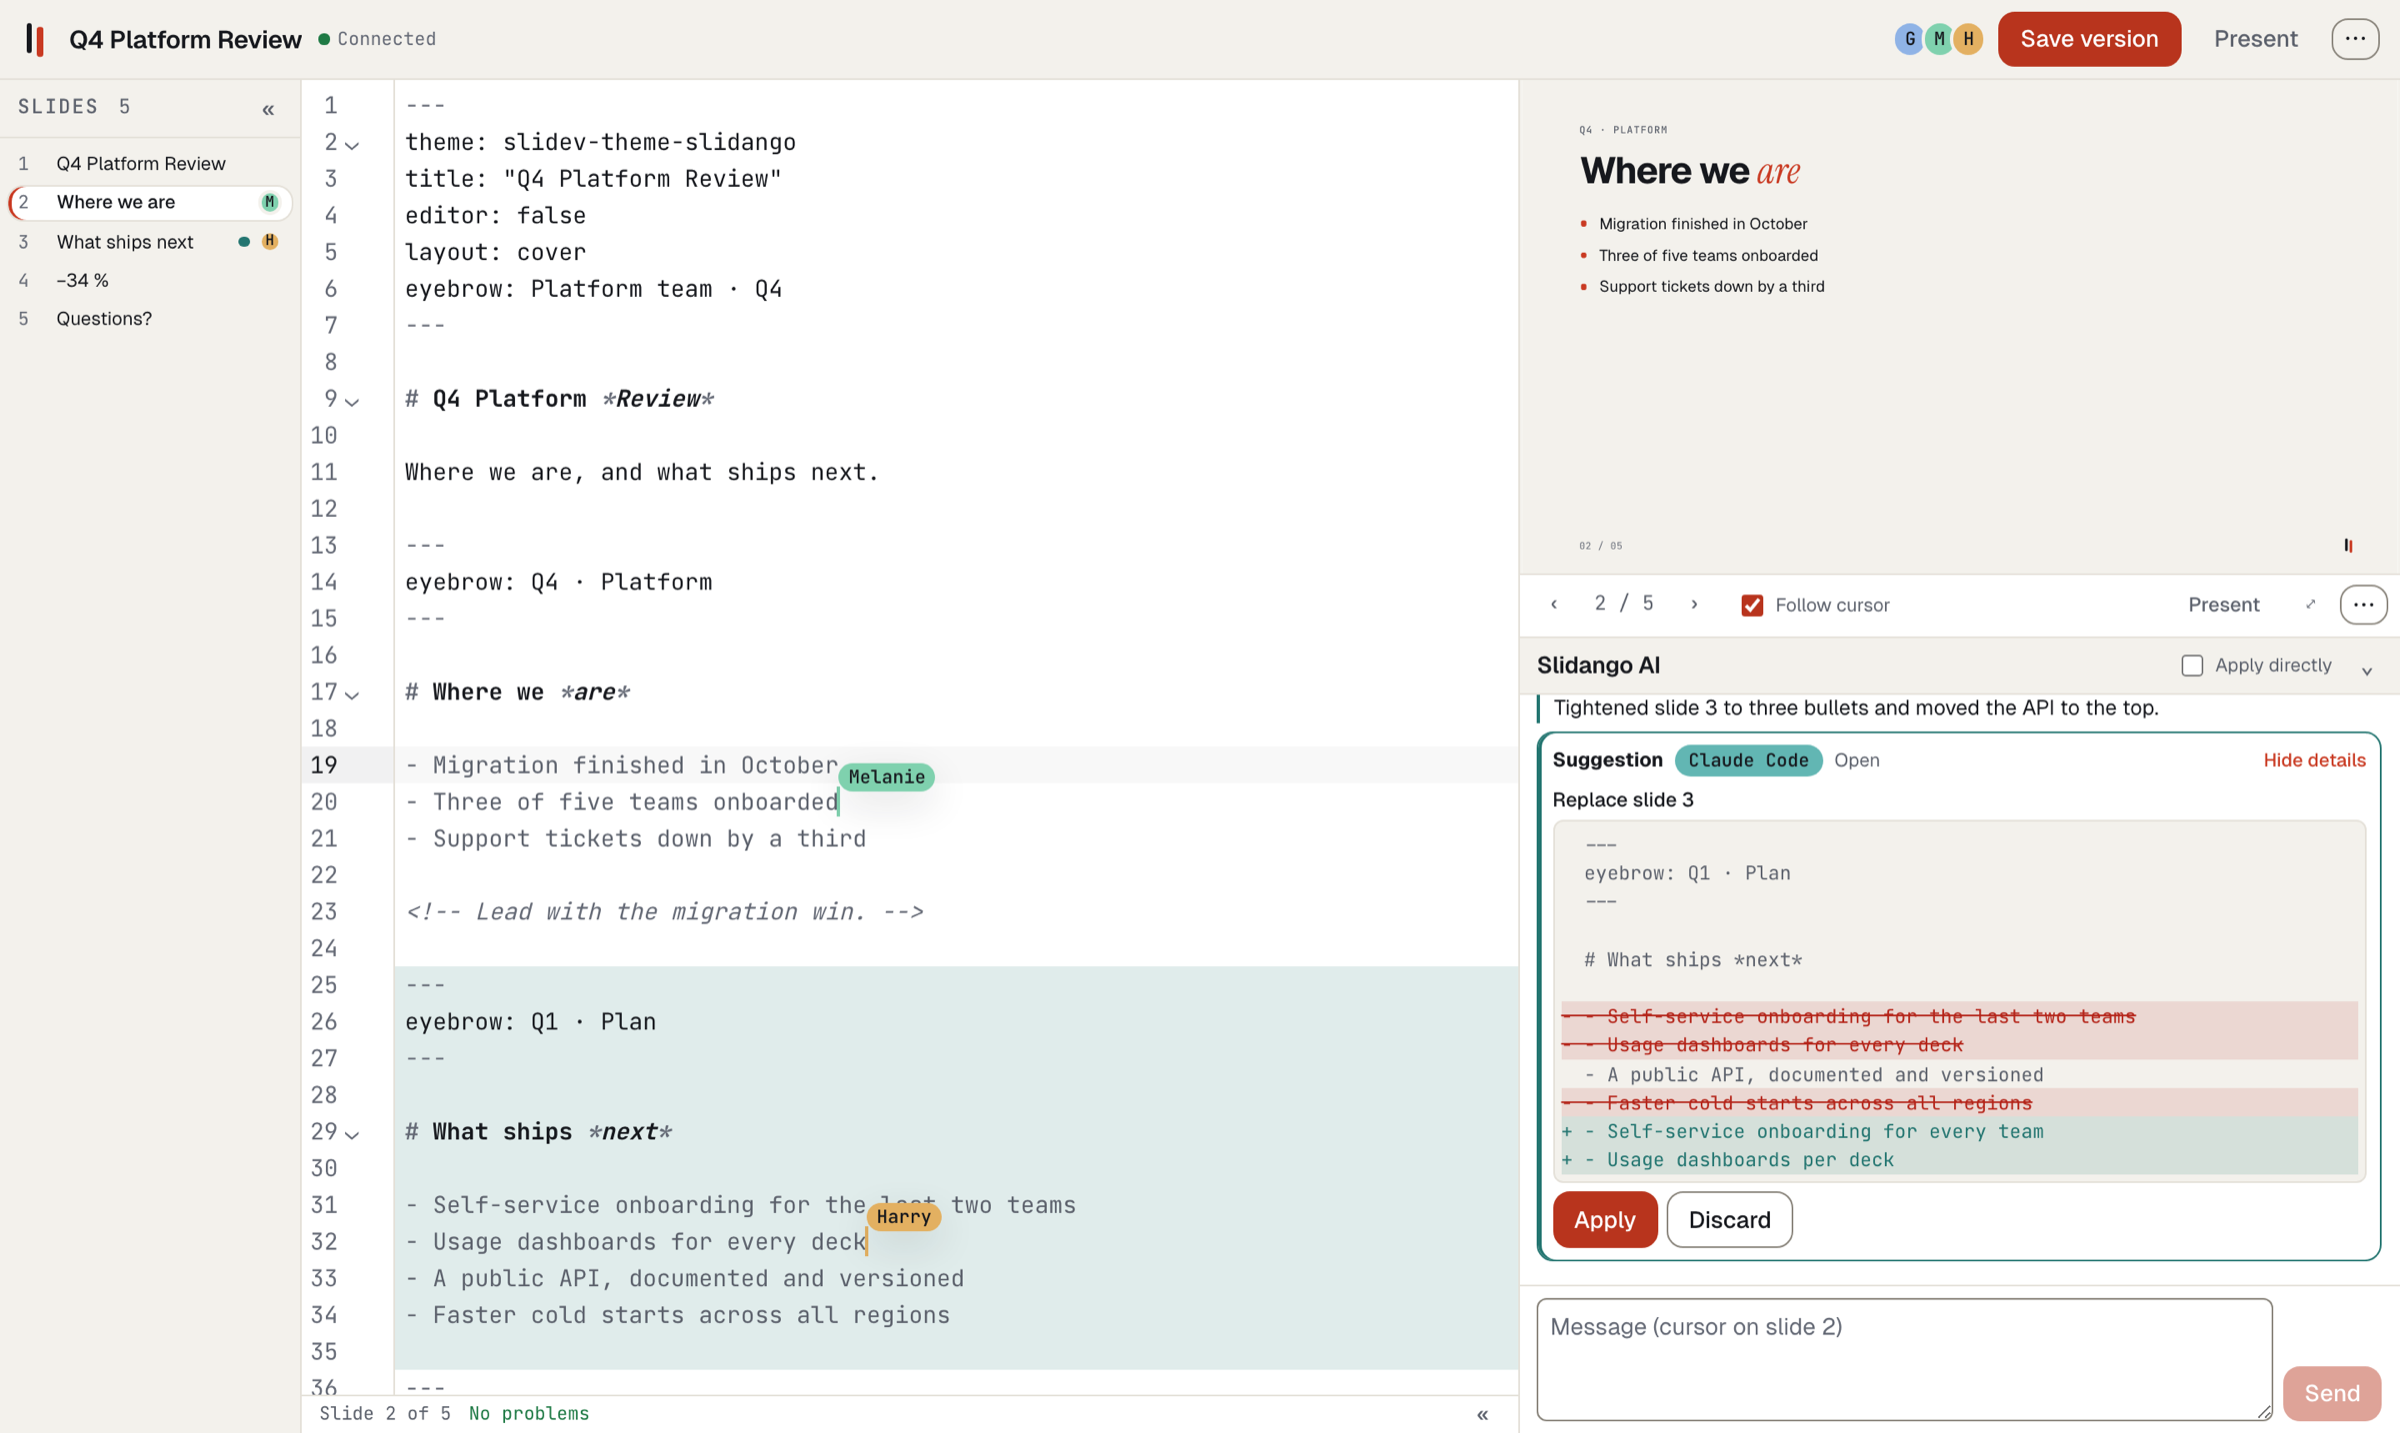
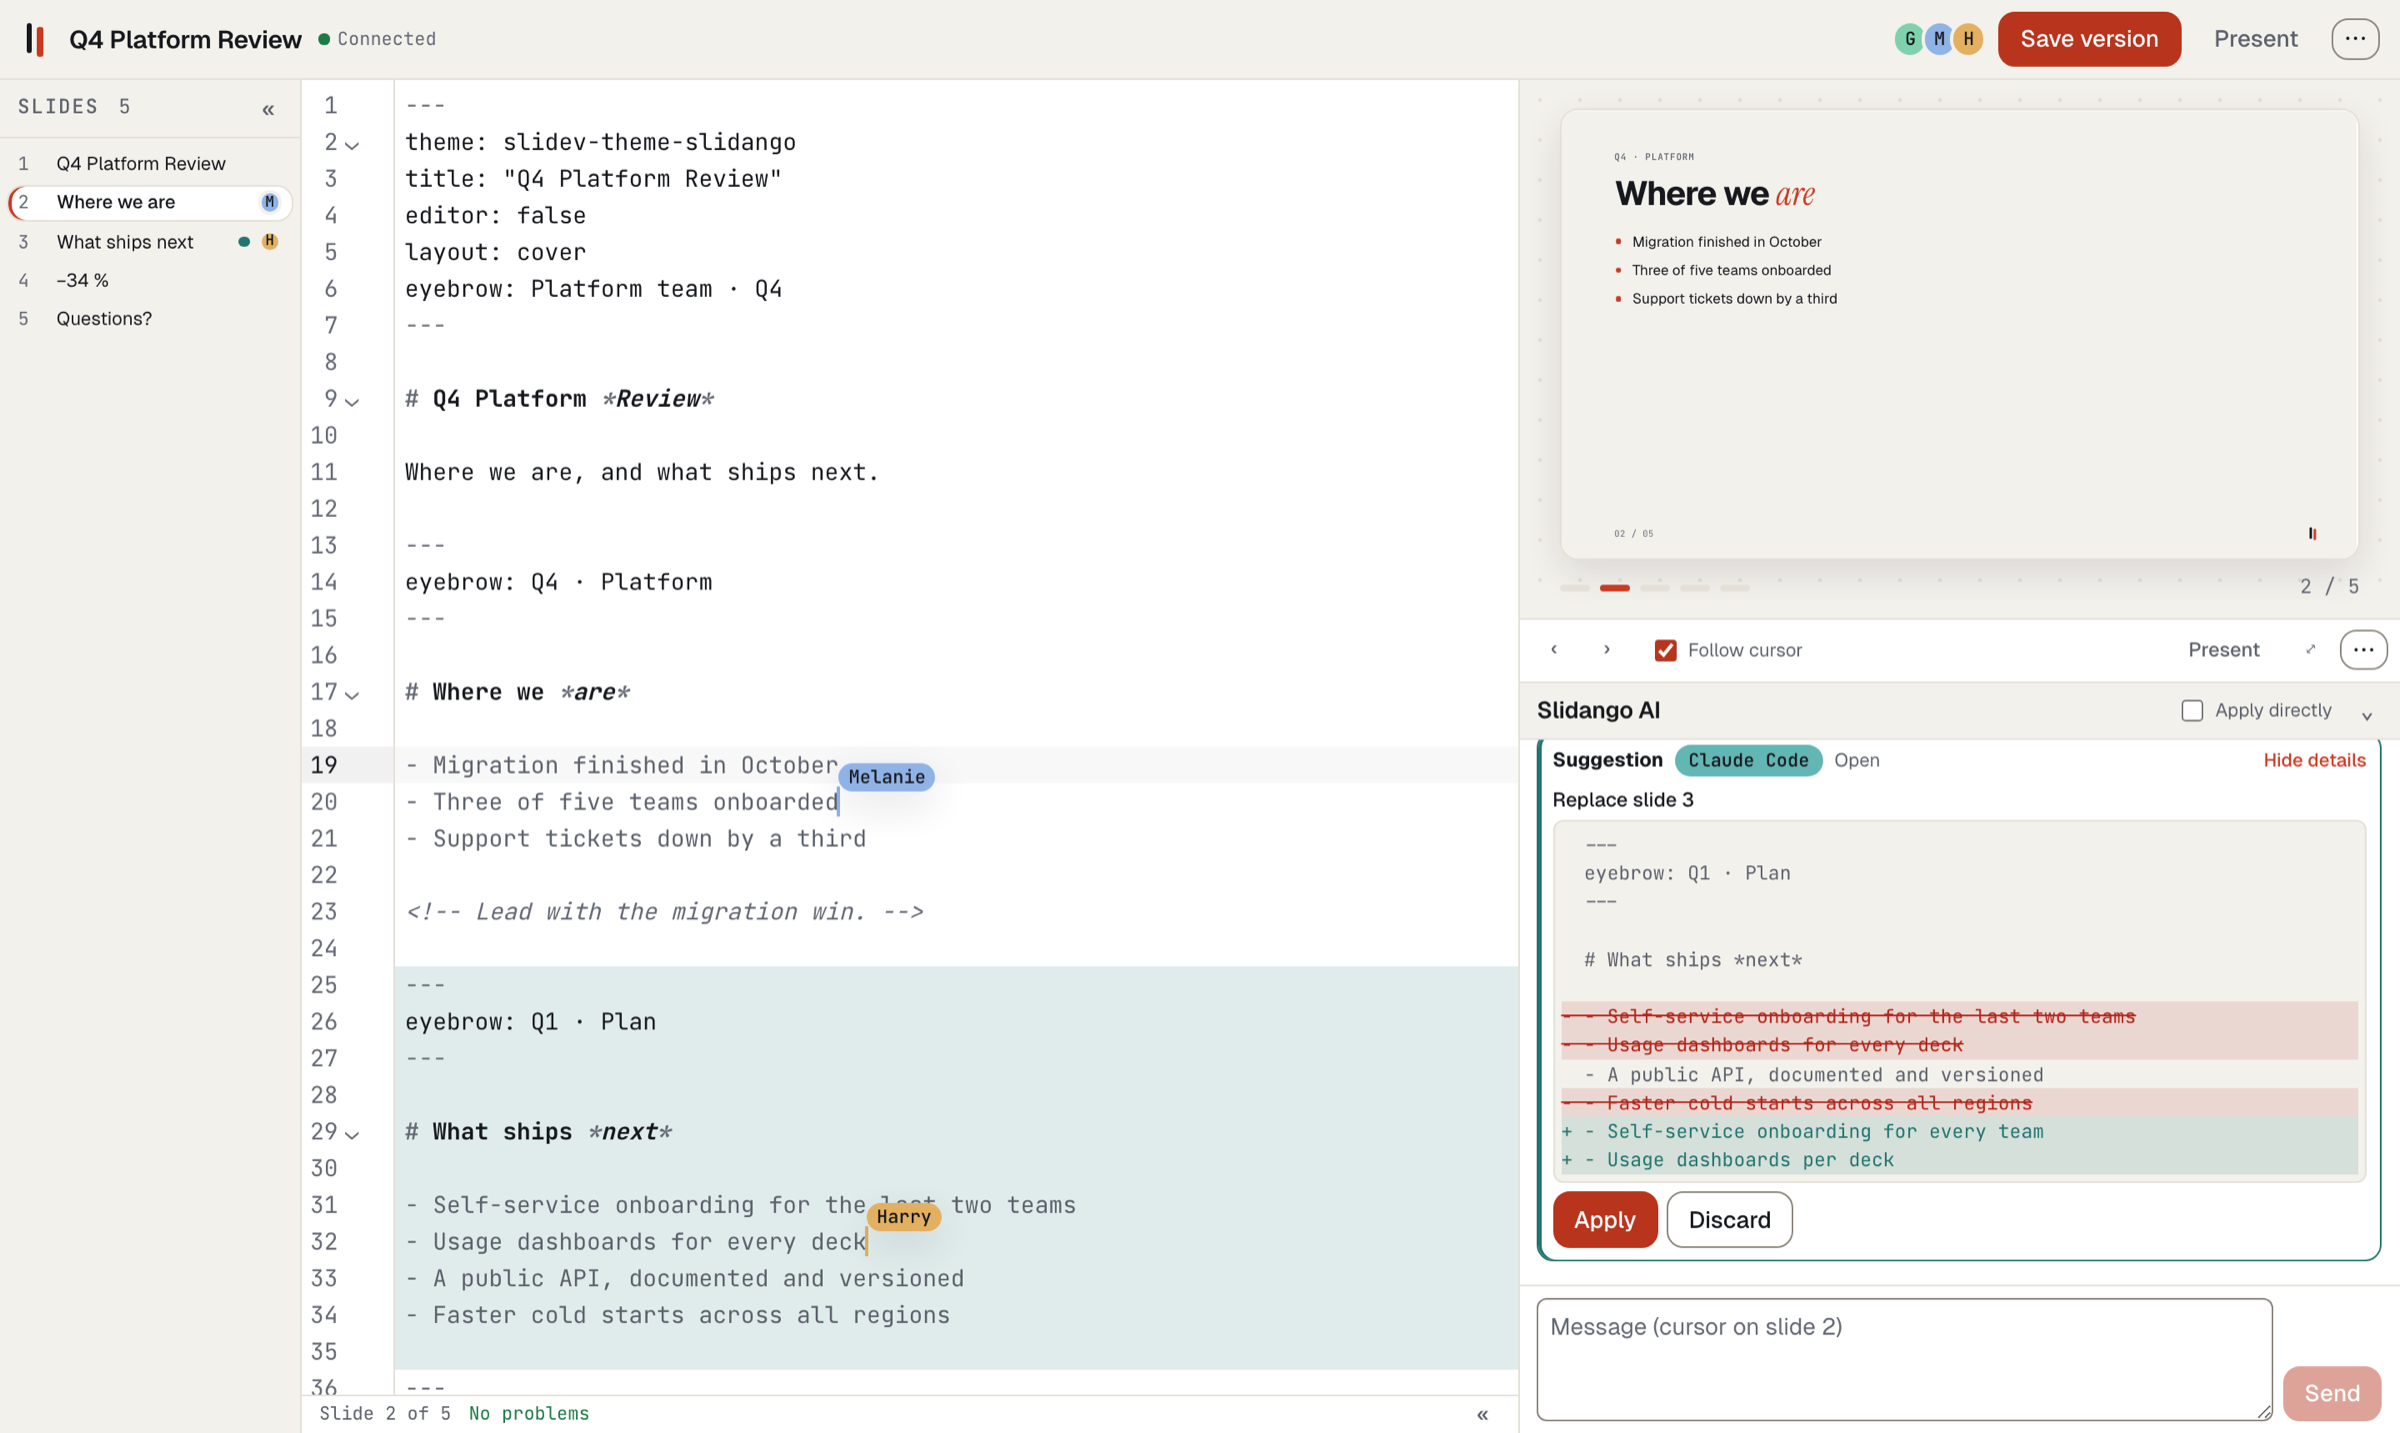
Preview stage like the landing page
The slide sits as an exact 16:9 card with a shadow on the dot grid (no
letterbox inside the iframe). Below it, one bar per slide with the
current one in tango; bars jump to their slide. The page count moves
from the toolbar under the slide.

diff --git a/apps/web/src/components/PreviewPane.vue b/apps/web/src/components/PreviewPane.vue
@@ -117,14 +117,34 @@ defineExpose({ restart: start, step })
 <template>
   <div class="preview" data-testid="preview">
     <div class="stage">
-      <iframe
-        v-if="preview?.status === 'ready' && src"
-        ref="frame"
-        :src="src"
-        title="Live preview"
-        allow="fullscreen; screen-wake-lock; clipboard-write"
-        @load="onLoad"
-      />
+      <template v-if="preview?.status === 'ready' && src">
+        <div class="fit">
+          <div class="sheet">
+            <iframe
+              ref="frame"
+              :src="src"
+              title="Live preview"
+              allow="fullscreen; screen-wake-lock; clipboard-write"
+              @load="onLoad"
+            />
+          </div>
+        </div>
+        <div class="pages">
+          <span class="bars" role="group" aria-label="Slides">
+            <button
+              v-for="n in total"
+              :key="n"
+              class="bar"
+              :class="{ on: n === current }"
+              :title="`Slide ${n}`"
+              :aria-label="`Slide ${n}`"
+              :aria-current="n === current ? 'page' : undefined"
+              @click="goTo(n)"
+            />
+          </span>
+          <span class="position" data-testid="preview-position">{{ current }} / {{ total }}</span>
+        </div>
+      </template>
       <div v-else-if="preview?.status === 'error'" class="message error">
         <p>The preview crashed.</p>
         <button @click="start">Restart</button>
@@ -139,7 +159,6 @@ defineExpose({ restart: start, step })
 
     <div class="controls" role="toolbar" aria-label="Preview">
       <button class="ghost icon" title="Previous slide (Ctrl+Alt+←)" aria-label="Previous slide" :disabled="!nav.hasPrev" @click="step('prev')">‹</button>
-      <span class="position" data-testid="preview-position">{{ current }} / {{ total }}</span>
       <button class="ghost icon" title="Next slide (Ctrl+Alt+→)" aria-label="Next slide" :disabled="!nav.hasNext" @click="step('next')">›</button>
       <label class="follow" title="The preview jumps to the slide under your cursor">
         <input v-model="follow" type="checkbox" /> Follow cursor
@@ -160,14 +179,42 @@ defineExpose({ restart: start, step })
 
 <style scoped>
 .preview { height: 100%; display: flex; flex-direction: column; background: var(--surface); min-height: 0; }
-.stage { flex: 1; min-height: 0; display: flex; background: var(--surface-100); }
-iframe { flex: 1; border: 0; width: 100%; height: 100%; background: var(--surface-100); }
+/* Like the landing page: the slide as a card on the dot grid, page bars below. */
+.stage {
+  flex: 1;
+  min-height: 0;
+  display: flex;
+  flex-direction: column;
+  gap: 10px;
+  padding: 18px 24px 10px;
+  background-color: var(--surface-100);
+  background-image: radial-gradient(circle, var(--line) 1.2px, transparent 1.3px);
+  background-size: 24px 24px;
+}
+.fit { flex: 1; min-height: 0; display: grid; place-items: center; container-type: size; }
+/* Exactly 16:9 and as large as fits: no letterbox inside the iframe. */
+.sheet {
+  width: min(100cqw, 100cqh * 16 / 9);
+  aspect-ratio: 16 / 9;
+  border-radius: var(--radius-md);
+  overflow: hidden;
+  /* A hairline keeps the edge visible when a dark slide sits on the dark grid. */
+  box-shadow: 0 0 0 1px var(--line), var(--shadow-pop);
+  background: var(--surface-card);
+}
+iframe { display: block; border: 0; width: 100%; height: 100%; }
+.pages { display: flex; align-items: center; justify-content: space-between; gap: 12px; min-height: 16px; }
+.bars { display: flex; gap: 6px; min-width: 0; flex: 1; }
+.bar { flex: 0 1 18px; min-width: 3px; height: 4px; padding: 0; border: none; border-radius: 2px; background: var(--line); cursor: pointer; transition: background 0.3s var(--ease); }
+.bar:hover:not(:disabled) { background: var(--line-strong); border: none; }
+.bar.on, .bar.on:hover:not(:disabled) { background: var(--tango); }
+.bar:focus-visible { outline-offset: 3px; }
 .message { padding: 1rem; overflow: auto; width: 100%; margin: 0; }
 .starting { display: grid; place-items: center; color: var(--muted); }
 .error p { color: var(--danger); margin-top: 0; }
 pre { font-size: 12px; white-space: pre-wrap; background: var(--code-bg); color: var(--code-ink); border: 1px solid var(--border); padding: 0.5rem; border-radius: var(--radius-sm); }
 .controls { display: flex; align-items: center; gap: 0.25rem; padding: 0.25rem 0.5rem; border-top: 1px solid var(--border); background: var(--surface); flex-wrap: wrap; }
-.position { font: 400 12px/1.3 var(--font-mono); min-width: 3.5rem; text-align: center; color: var(--muted); }
+.position { font: 400 12px/1.3 var(--font-mono); color: var(--ink-subtle); white-space: nowrap; }
 .follow { display: flex; align-items: center; gap: 0.3rem; font-size: 0.8rem; color: var(--muted); margin-left: 0.5rem; }
 .spacer { flex: 1; }
 .controls button { font-size: 0.85rem; }

diff --git a/apps/web/src/views/DeckEditor.vue b/apps/web/src/views/DeckEditor.vue
@@ -356,12 +356,15 @@ onBeforeUnmount(() => {
 })
 
 const CONTROLS_HEIGHT = 37
+/** The dot-grid stage around the slide: 24px side padding, 18px top, page bars and gaps below. */
+const STAGE_PAD_X = 48
+const STAGE_CHROME_Y = 54
 /** Preview height: the user's choice, else exactly a 16:9 slide plus its control bar. */
 const ASSISTANT_MIN = 220
 /** Preview height: the user's choice, else a 16:9 slide plus its control bar, leaving room for an open assistant. */
 const previewHeight = computed(() => {
   if (layout.previewHeight !== null) return layout.previewHeight
-  const natural = Math.round((rightWidth.value * 9) / 16) + CONTROLS_HEIGHT
+  const natural = Math.round(((rightWidth.value - STAGE_PAD_X) * 9) / 16) + STAGE_CHROME_Y + CONTROLS_HEIGHT
   if (!layout.assistantOpen || !rightHeight.value) return natural
   return Math.max(140, Math.min(natural, rightHeight.value - ASSISTANT_MIN))
 })
